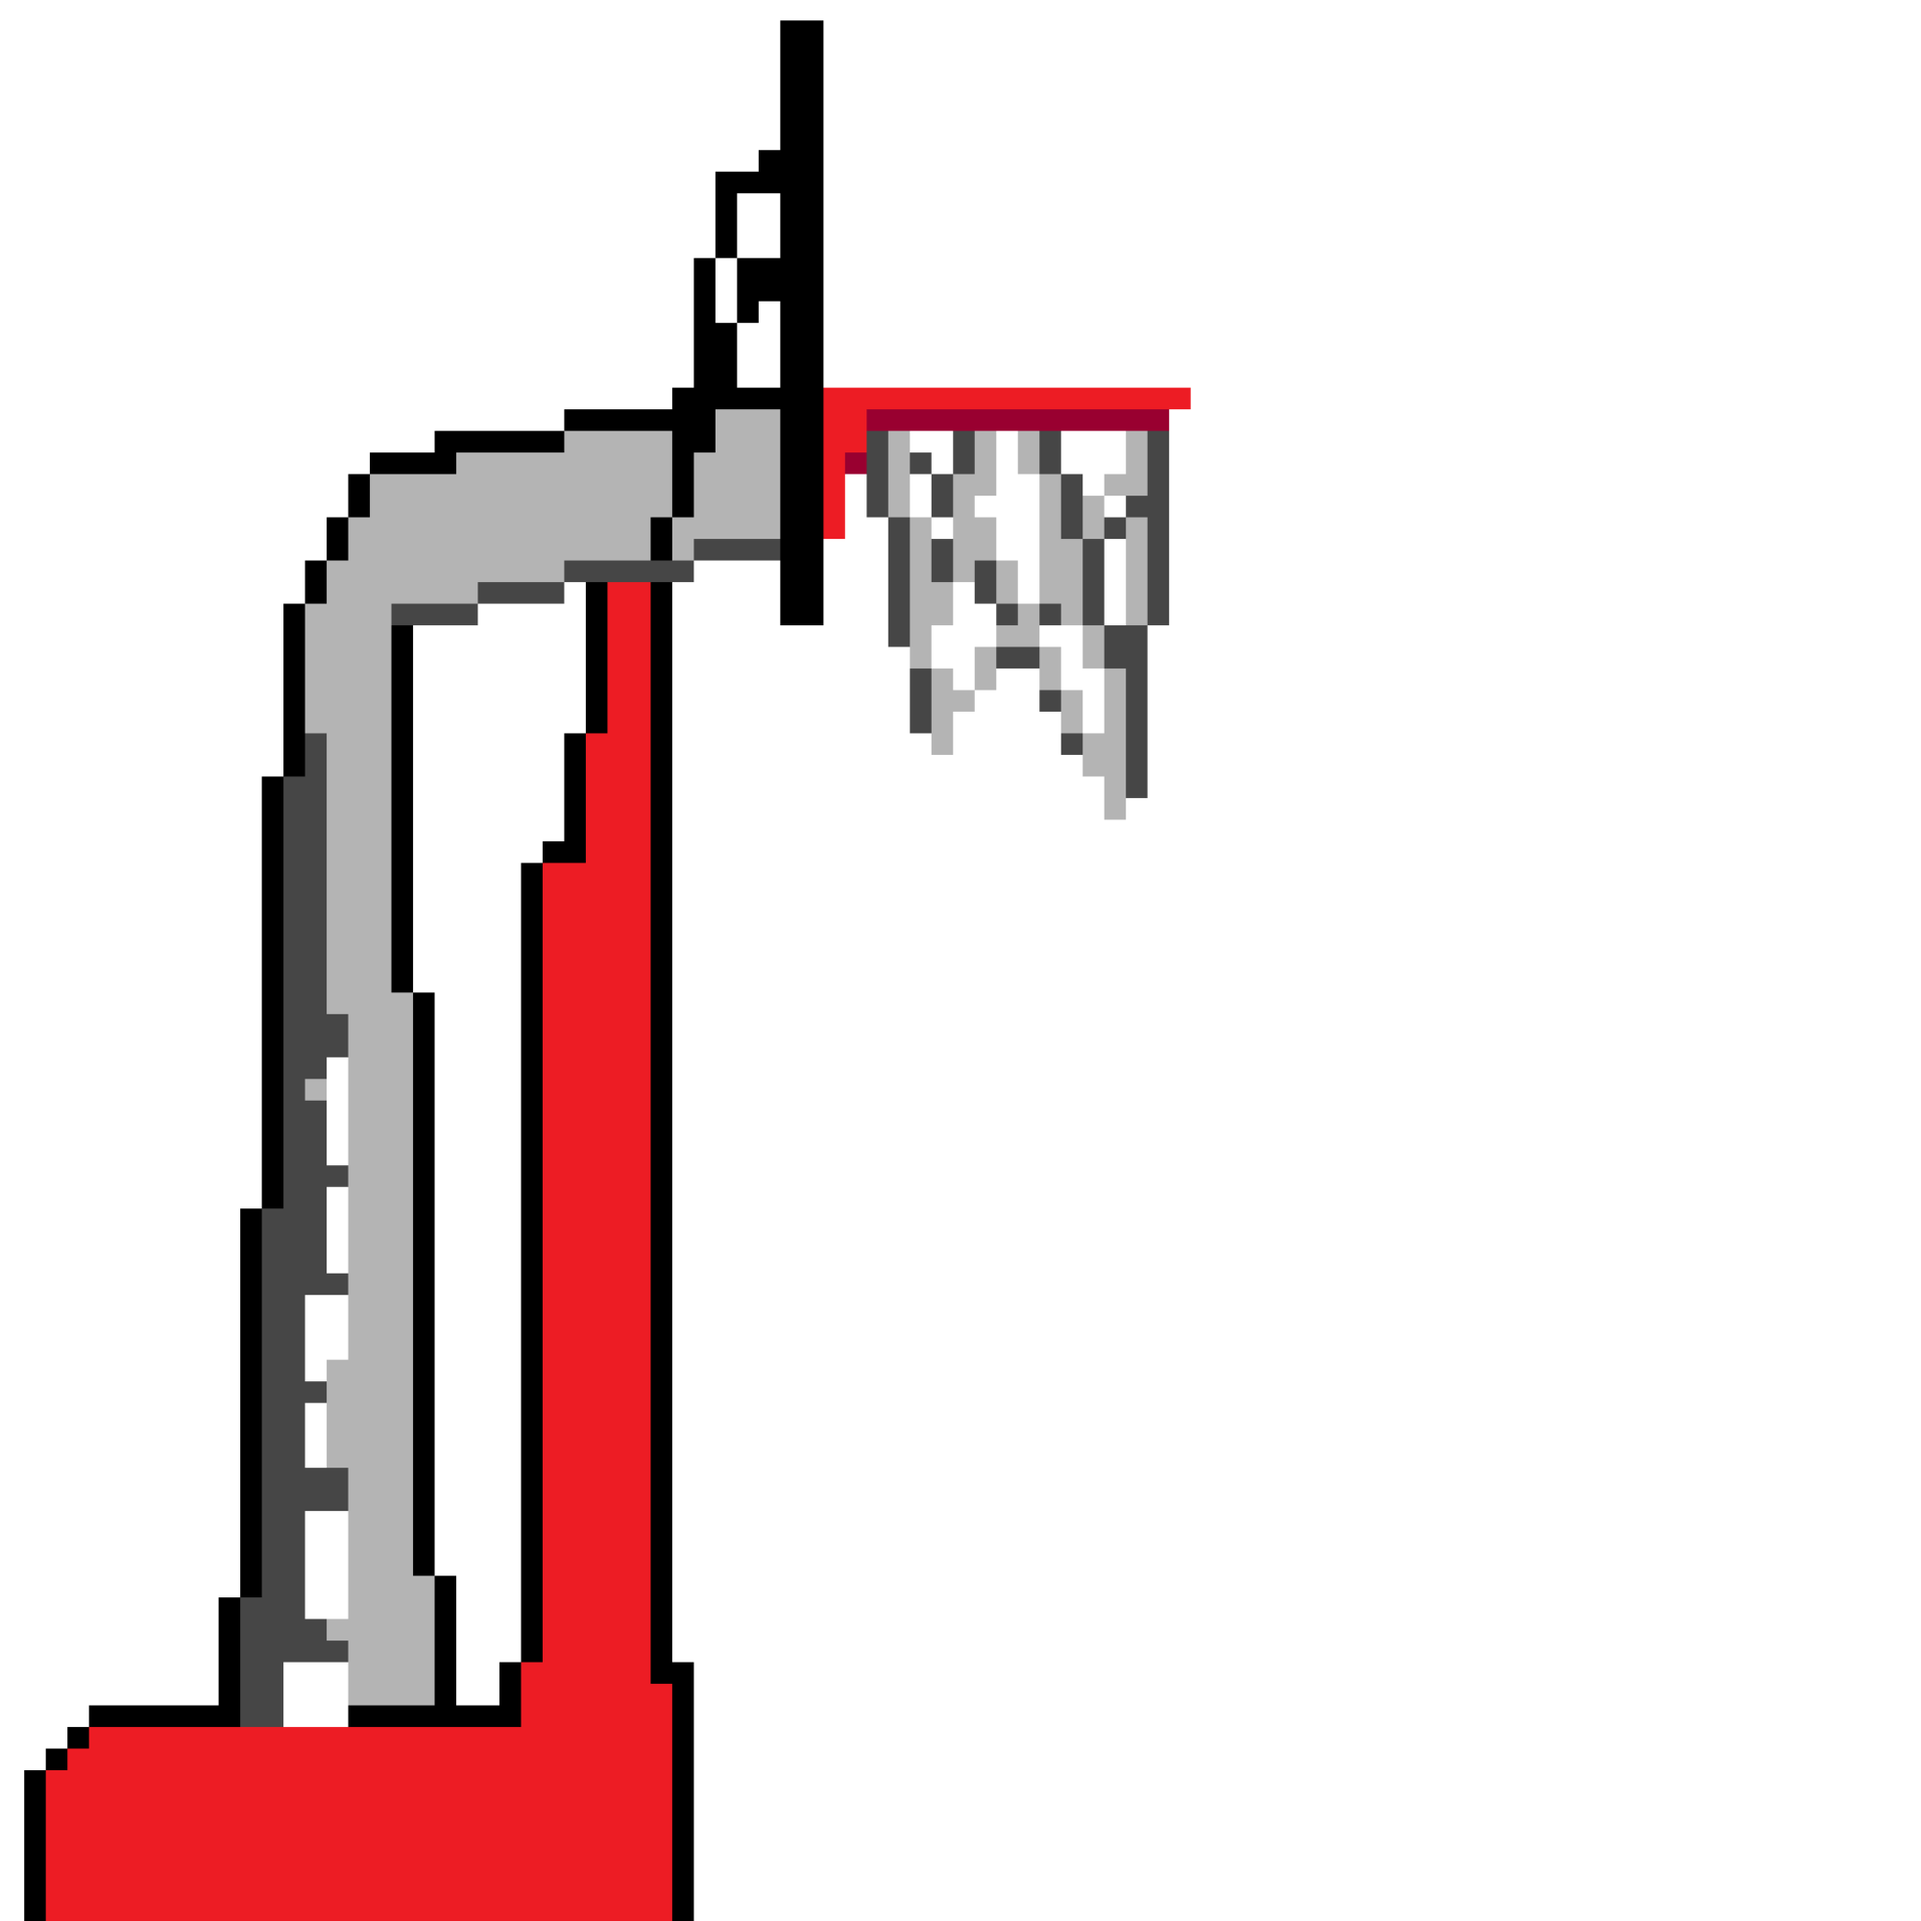
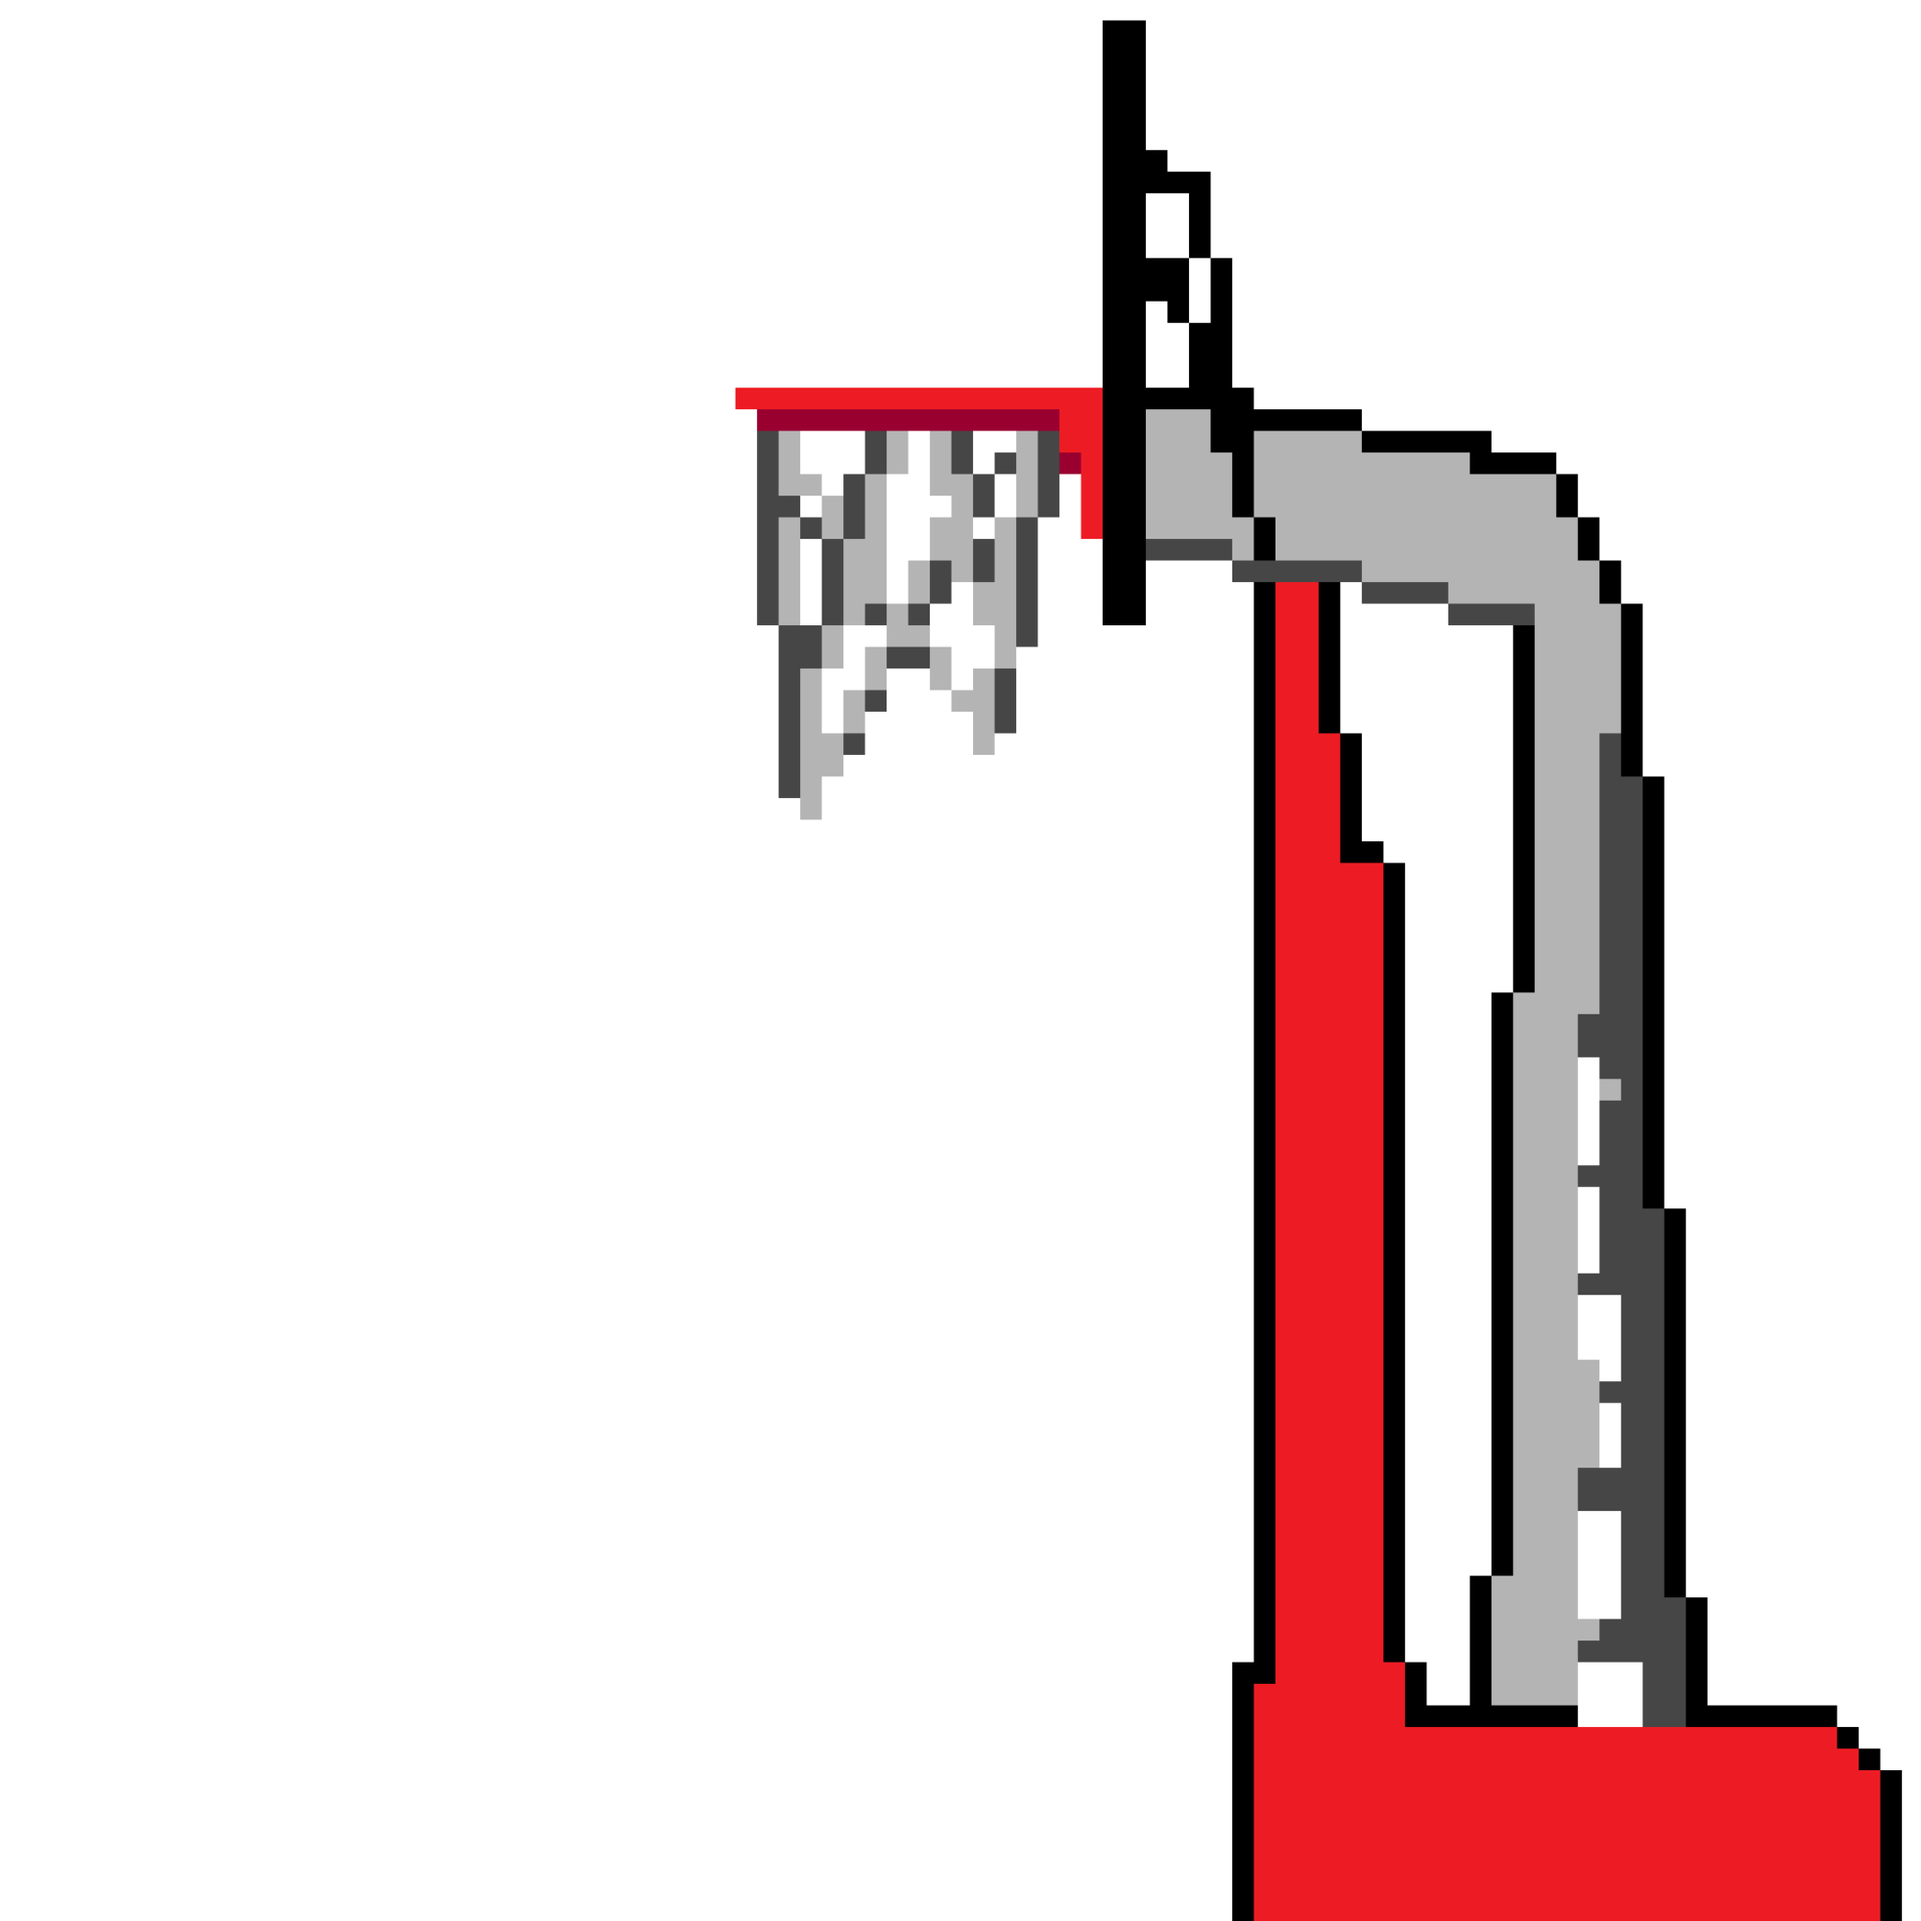
working on shot

diff --git a/Hazz Hoops/src/Ball.java b/Hazz Hoops/src/Ball.java
@@ -15,7 +15,9 @@ public class Ball {
 	private Image img;
 	private AffineTransform tx;
 	private int newV = 0;
-	private boolean shot = false;
+	private boolean far = false;
+	private boolean normal = false;
+	private boolean close = false;
 	public Ball() {
 		img = getImage("/imgs/tempBall.png"); // load the image for Tree
 
@@ -51,13 +53,26 @@ public class Ball {
 		g.setColor(new Color(0,0,0));
 		tx.setToTranslation(x, y);
 		tx.scale(0.05, 0.05);
-		if(y<=400) {
-			vy=0;
+		if(far) {
+			if(y<=400) {
+				vy=0;
+			}
+			if(x>1350) {
+				vy=20;
+				if(y>525) {
+					vx=0;
+				}
+			}
 		}
-		if(x>1350&&shot) {
-			vy=10;
-			if(y>525) {
-				vx=0;
+		if(normal) {
+			if(y<=400) {
+				vy=0;
+			}
+			if(x>1320) {
+				vy=20;
+				if(y>525) {
+					vx=0;
+				}
 			}
 		}
 		
@@ -115,10 +130,15 @@ public class Ball {
 		System.out.println("worked");
 	}
 	
-	public void shot() {
-		vx=10;
-		vy=-10;
-		shot=true;
+	public void far() {
+		vx=20;
+		vy=-20;
+		far=true;
+	}
+	public void normal() {
+		vx=30;
+		vy=-30;
+		normal=true;
 	}
 	
 	public int getX() {

diff --git a/Hazz Hoops/src/Character.java b/Hazz Hoops/src/Character.java
@@ -78,7 +78,7 @@ public class Character {
 		// these are the 2 lines of code needed draw an image on the screen
 		Graphics2D g2 = (Graphics2D) g;
 		
-		System.out.println(y);
+		System.out.println(x);
 		//update();
 		g2.drawImage(img, tx, null);
 		g.setColor(new Color(0,0,0));
@@ -115,17 +115,30 @@ public class Character {
 		vx=(speed);
 		System.out.println("worked");
 	}
+	
+	
+	
 	public void shot() {
 		vy=-10;
 	}
+	
+	
+	
+	
 	public void moveStop() {
 		vx=0;
 	}
+	
+	
+	
+	
 	private void init(double a, double b) {
 		tx.setToTranslation(a, b);
 		tx.scale(0, 0);
 	}
 
+	
+	
 	private Image getImage(String path) {
 		Image tempImage = null;
 		try {

diff --git a/Hazz Hoops/src/Driver.java b/Hazz Hoops/src/Driver.java
@@ -31,7 +31,7 @@ public class Driver extends JPanel implements ActionListener, MouseListener, Key
 	Balanced p1 = new Balanced(50,50,20,50);
 	Ball b1 = new Ball();
 	Hoop h1 = new Hoop();
-	Hoop h2 = new Hoop("HoopRight");
+	Hoop h2 = new Hoop("HoopRight.png");
 	
 	
 	
@@ -140,7 +140,12 @@ public class Driver extends JPanel implements ActionListener, MouseListener, Key
 		}
 		if(arg32.getKeyCode()==87) {
 			p1.shot();
-			b1.shot();
+			if(p1.getX()<=750) {
+			b1.far();
+			}
+			if(p1.getX()>750) {
+				b1.normal();
+				}
 		}
 		
 		

diff --git a/Hazz Hoops/src/Hoop.java b/Hazz Hoops/src/Hoop.java
@@ -15,7 +15,7 @@ public class Hoop {
 	private AffineTransform tx;
  
 	public Hoop() {
-		img = getImage("/imgs/HoopV2.png"); // load the image for Background
+		img = getImage("/imgs/HoopLeft.png"); // load the image for Background
 
 		tx = AffineTransform.getTranslateInstance(x, y);
 		 // initialize the location of the image
@@ -30,7 +30,7 @@ public class Hoop {
 
 		tx = AffineTransform.getTranslateInstance(x, y);
 		y=375;
-		x=1500;
+		x=1200;
 		// initialize the location of the image
 					// use your variables
 	}
